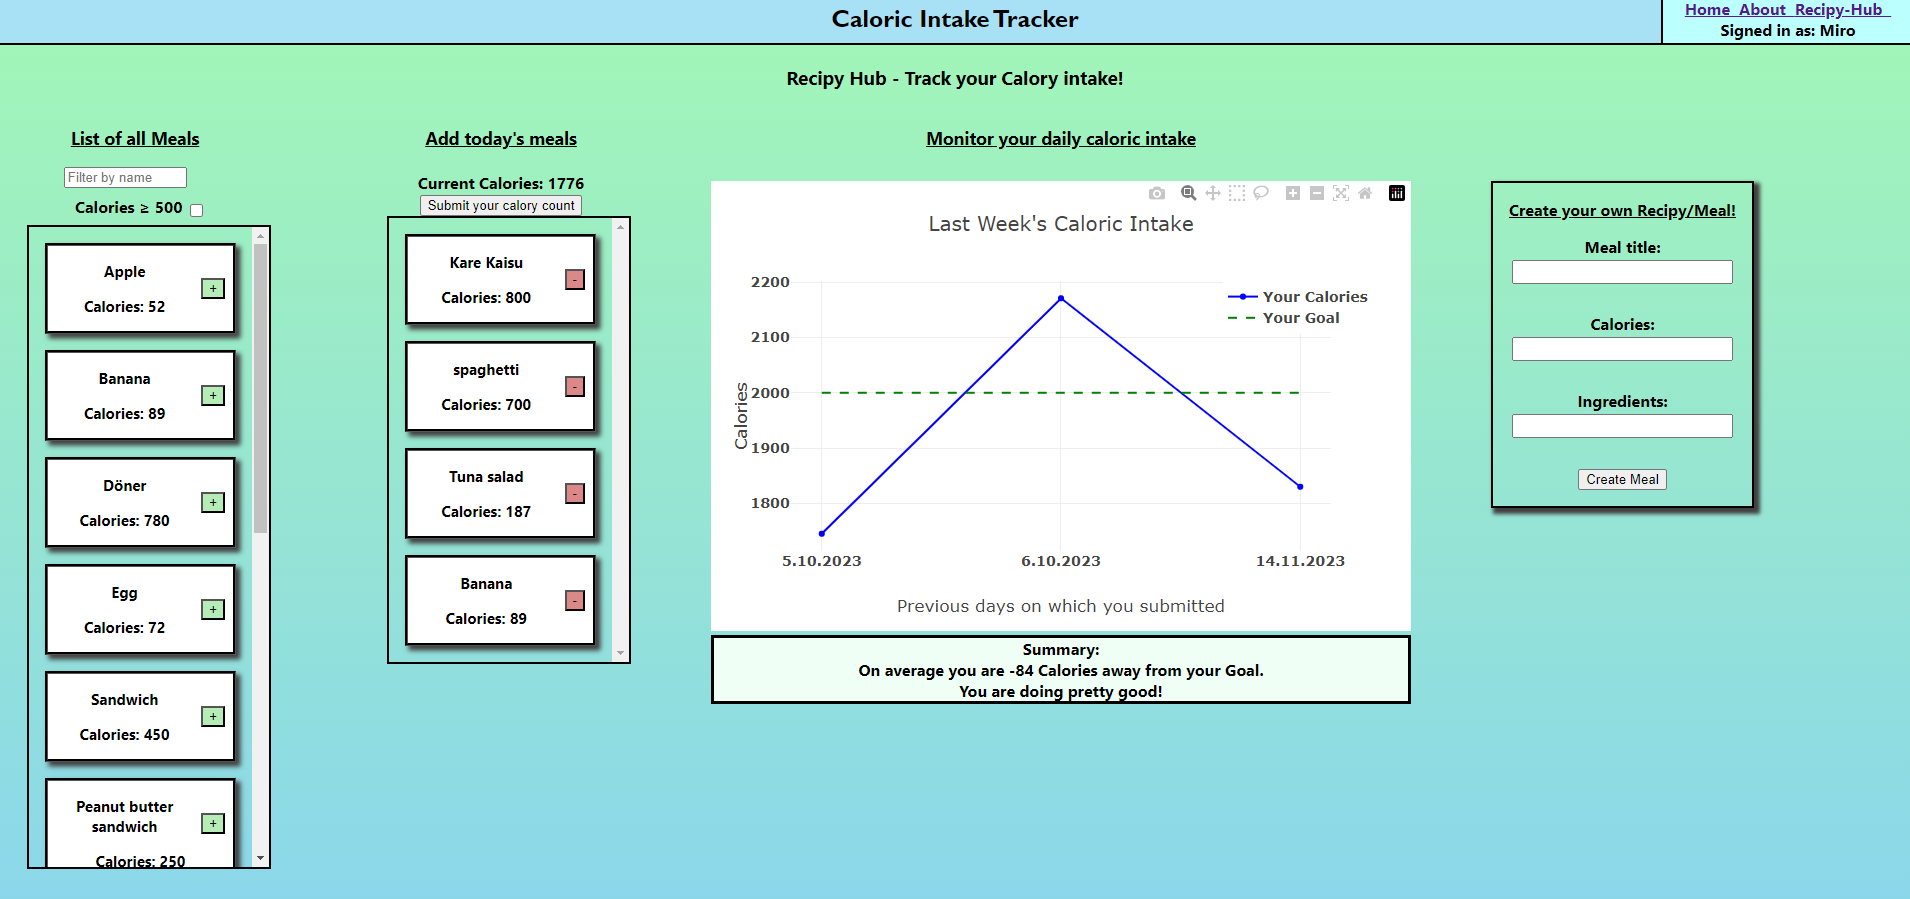
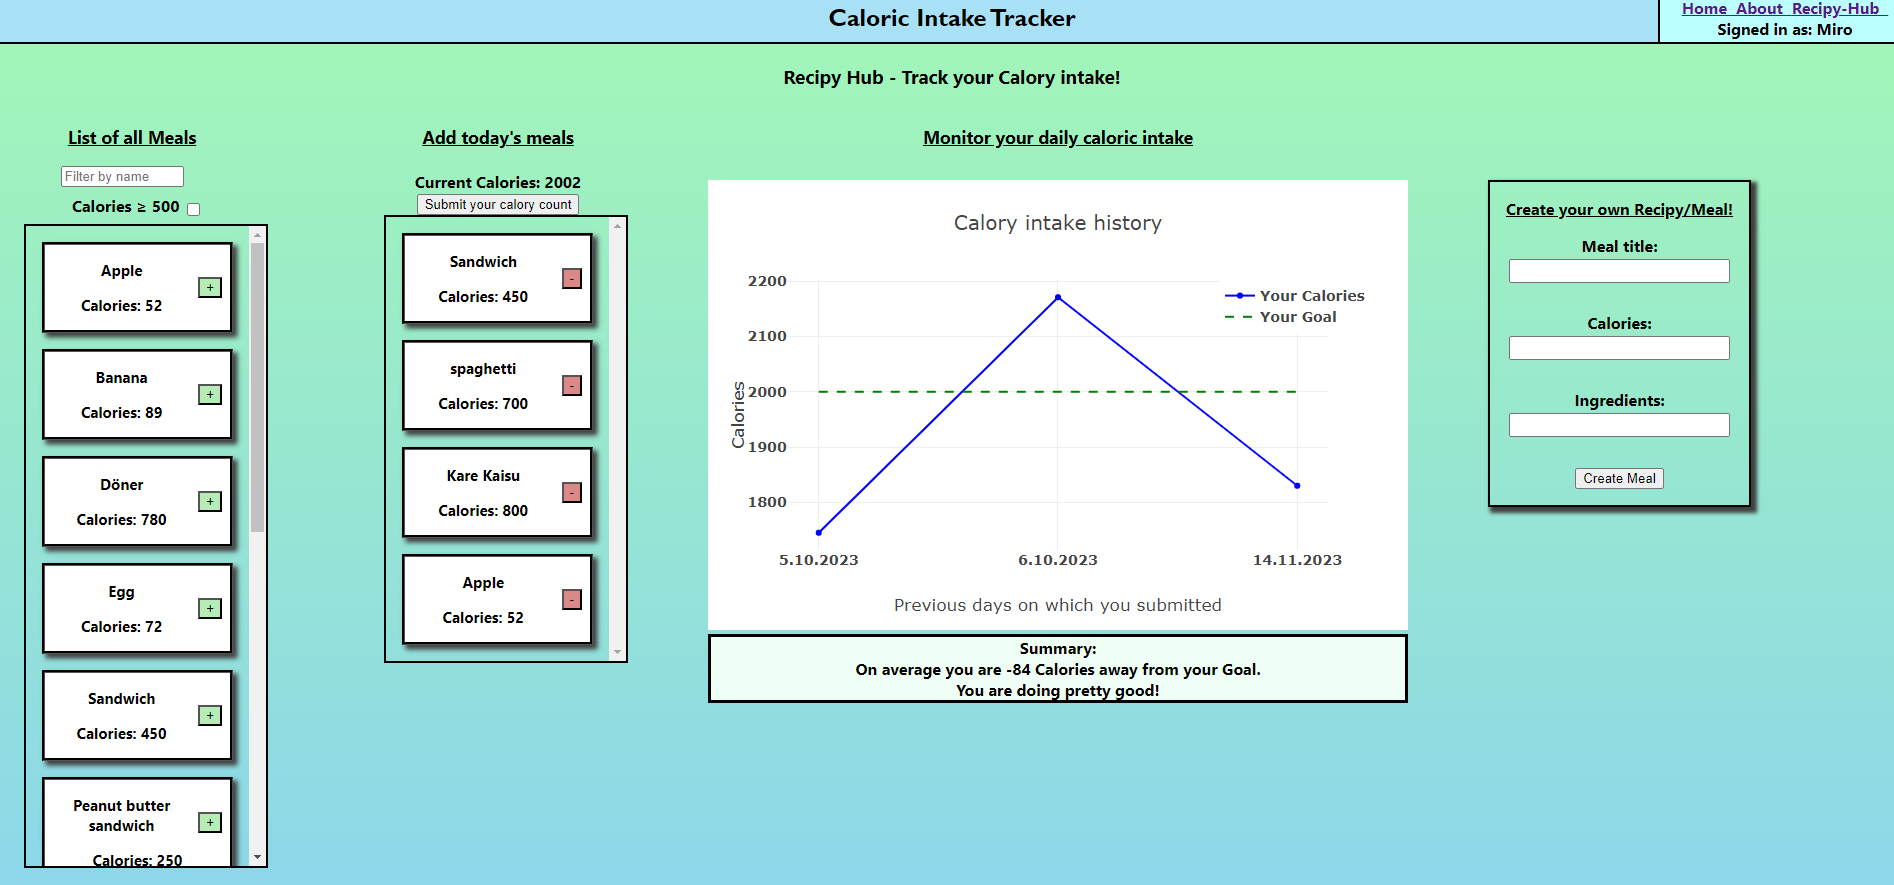
changed chart title

diff --git a/frontend/src/components/CaloryChart.js b/frontend/src/components/CaloryChart.js
@@ -49,7 +49,7 @@ const CaloryChart = ({ previousCalories, submittedDays, caloryGoal}) => {
       ];
     
       const layout = {
-          title: "Last Week's Caloric Intake",
+          title: "Calory intake history",
           xaxis: { title: "Previous days on which you submitted"},
           yaxis: { title: "Calories" },
           font: { size: 14 },
